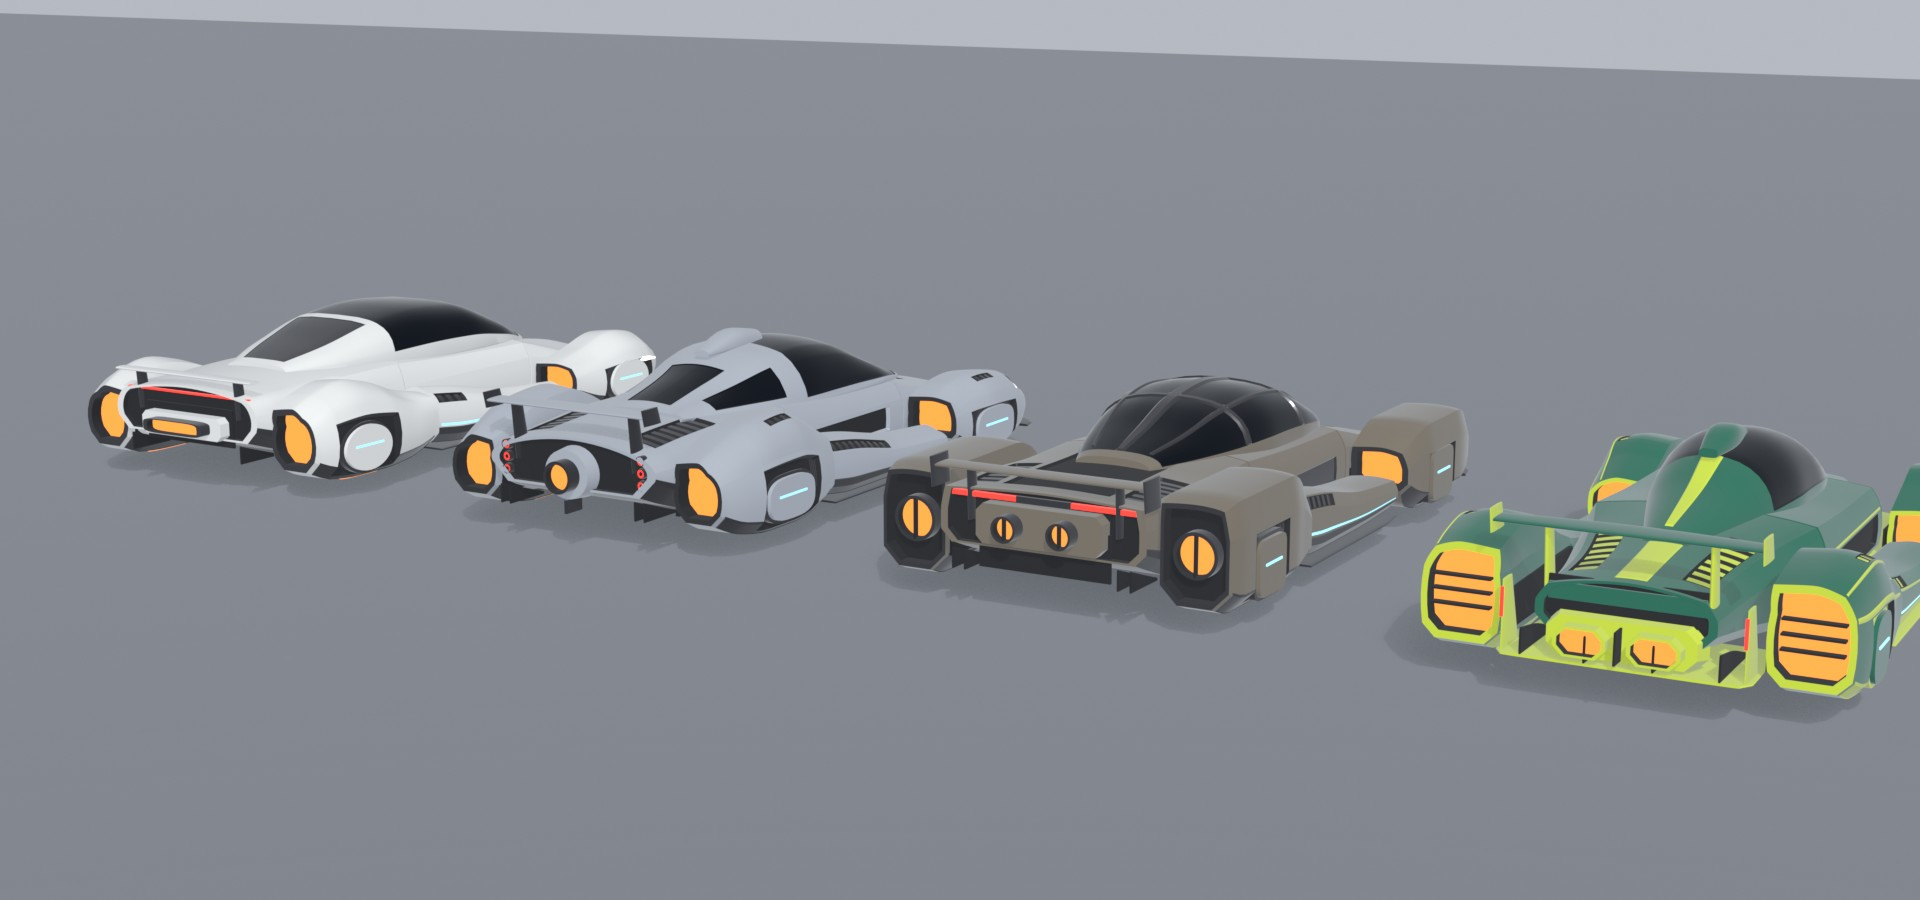
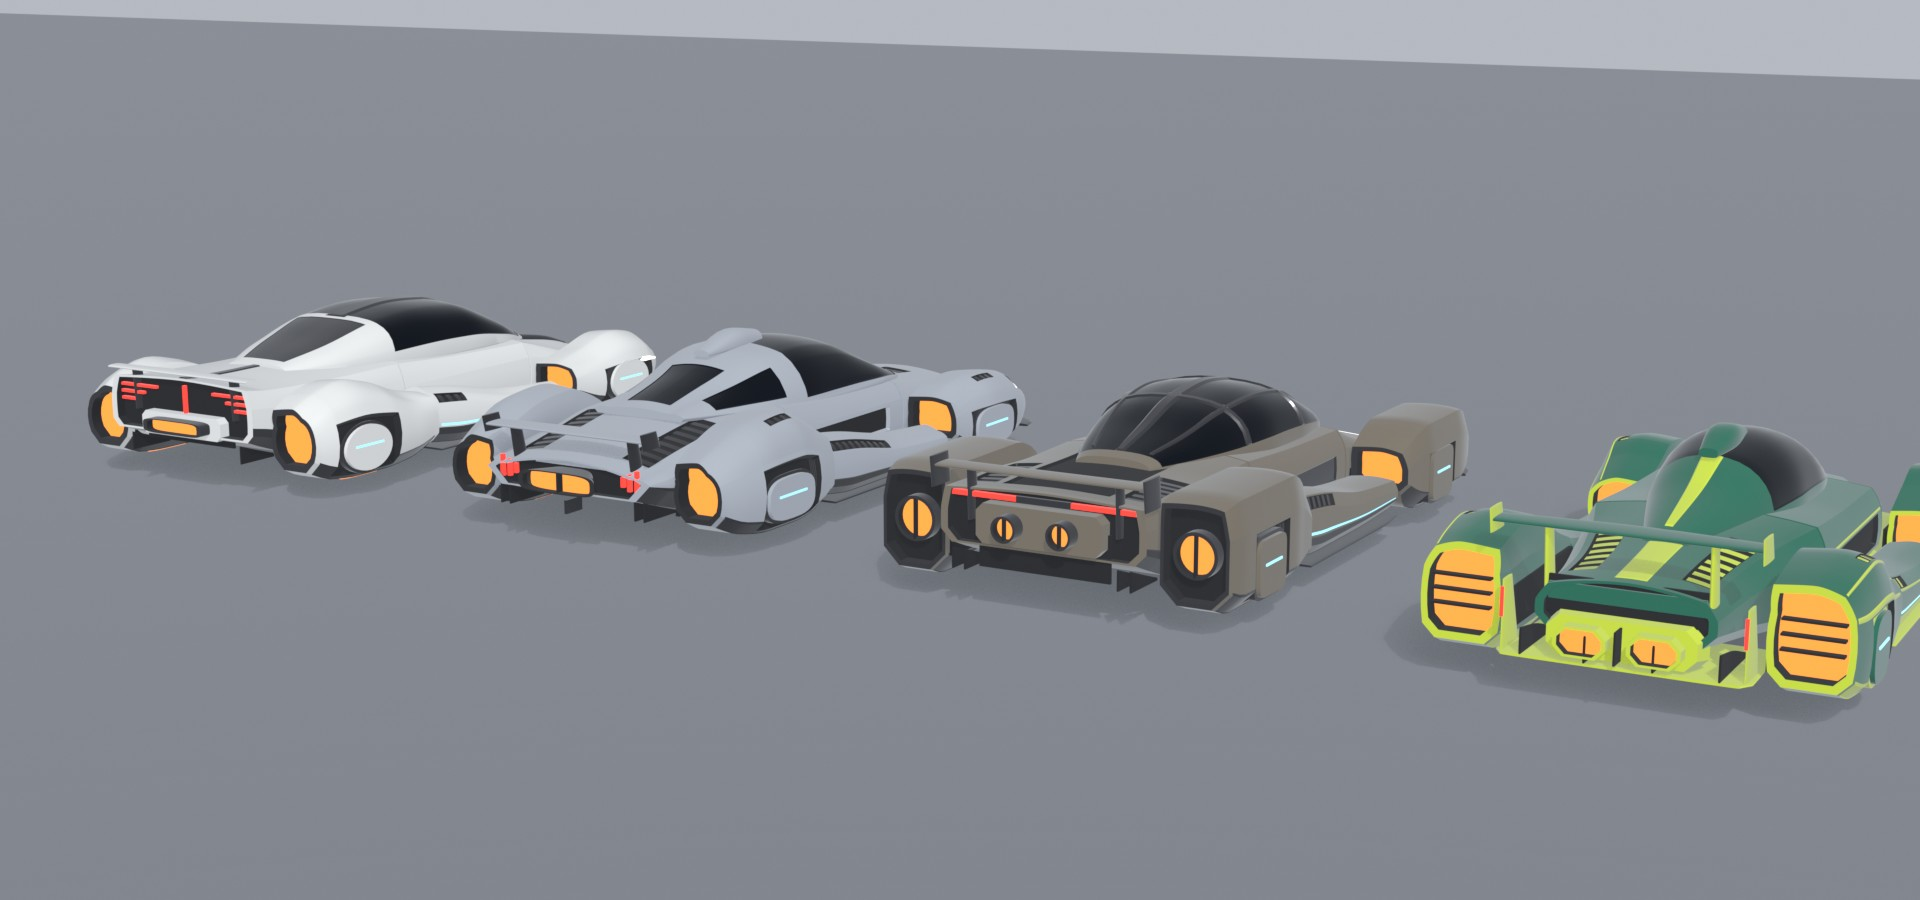
garage: Exotic cars C, D, E - own nose and tail language per car (spine and chopped tail, bullnose and sloping tail, valley nose and light bar)

Changed region(s): [[0.25, 0.4356, 0.375, 0.56], [0.0312, 0.4044, 0.1562, 0.4667], [0.4688, 0.4044, 0.5, 0.4356]]

diff --git a/scripts/exotic_category/mesh/cars2.py b/scripts/exotic_category/mesh/cars2.py
@@ -14,6 +14,15 @@
 
 All four keep the flowing fender-over-arch construction of cars A and B; they differ in profile.
 
+Visual language, nose and tail:
+  C  spine and blade: long pointed shark nose, a spine from nose tip through the glass, a tall chopped
+     tail with stepped lamp blades and a red centre spine.
+  D  soft and deep: thick rounded bullnose with a big mouth and upright corner lamps; a tail that
+     slopes down to a low edge, upright lamp blades, a flared fishtail burner.
+  E  valley and bar: short low nose that droops between the tall fenders, clean, with a full-width
+     light bar front and rear and twin low intakes.
+  F  raised and open: high narrow nose over a wing, open tail.
+
 Each has three versions per slot (STD road car, GT race kit, EVO full kit), built by cars.py helpers.
 """
 import exokit as K
@@ -133,14 +142,6 @@ SILL_ST = [(-5.2, dict(yb=-0.8, yt=0.4, ys=0.0)), (-2.0, dict(yt=0.65, ys=0.15))
            (3.4, dict(yb=-0.7, yt=1.55, ys=0.9))]
 
 
-def ring_lamp(name, x, y, z0, z1, r, ch="lights_red"):
-    """Round lamp that reads as a ring: lit lens with a dark centre."""
-    t = tube(z0, z1, x, y, r)
-    t.build(name, "secondary", mirror=True, caps=(True, False))
-    t.throat(name + "l", "max", lip="secondary", back=ch, scale=0.82, depth=0.06, mirror=True)
-    t.cap(name + "c", "max", "detail", scale=0.42, push=-0.04, mirror=True)
-
-
 # ---------------------------------------------------------------- car C: clean concept coupe
 
 C_POD = dict(rb=0.45, tum=0.5, drop=0.3, tumi=0.03, dropi=0.12, wcf=0.4, d2=0.03, crown=0.11)
@@ -155,12 +156,13 @@ def car_c():
                 (0.0, dict(w=3.25, yt=4.25)), (2.2, dict(w=3.1, yt=4.05)), (5.0, dict(w=2.6, yb=2.15, yt=3.3)),
                 (7.3, dict(w=1.6, yb=2.3, yt=2.7))], yb=1.95, yw=0.1, nt=3.2, nb=3.0)
     can.build("canopy", "primary", regions=[R(-6.3, 2.5, 8, 172, "glass", 0.03),
+                                            R(-6.5, 2.7, 86.5, 93.5, "secondary", -0.05),
                                             R(2.9, 6.9, 62, 118, "secondary", 0.02)])
     for trim in TRIMS:
         lvl = LVL[trim]
         K.begin(c, "NOSE", trim)
-        nose = Hull([(-12.6, dict(w=1.2, yb=0.15, yt=0.5, rb=0.1, ys=0.3, tum=0.15, drop=0.08)),
-                     (-12.0, dict(w=2.6, yb=0.0, yt=0.72, rb=0.2, ys=0.38, tum=0.25, drop=0.15)),
+        nose = Hull([(-12.6, dict(w=0.5, yb=0.2, yt=0.52, rb=0.1, ys=0.34, tum=0.12, drop=0.08)),
+                     (-12.0, dict(w=1.9, yb=0.0, yt=0.74, rb=0.2, ys=0.4, tum=0.25, drop=0.15)),
                      (-11.0, dict(w=3.5, yb=-0.3, yt=0.98, rb=0.35, ys=0.5, tum=0.35, drop=0.25)),
                      (-8.5, dict(w=3.8, yt=1.4, ys=0.8, tum=0.4, drop=0.32)),
                      (-6.6, dict(w=3.8, yt=1.9, ys=1.15, tum=0.36, drop=0.3, crown=0.06)), (-5.2, SEAM_F)],
@@ -171,10 +173,13 @@ def car_c():
         nose.build("skin", "primary", t1=-5.2 - GAP, regions=regs)
         if lvl:
             louvres(nose, "hood", -9.7, -7.4, 4.25, 4.9, 5 + lvl, off=-0.08)
-        jaw = Loft([(-12.1, dict(w=1.9)), (-11.6, dict(w=2.9)), (-10.5, dict(w=3.5))], yb=-0.4, yt=0.3, nt=5, nb=5)
+        jaw = Loft([(-11.9, dict(w=1.5)), (-11.4, dict(w=2.6)), (-10.5, dict(w=3.4))], yb=-0.4, yt=0.3, nt=5, nb=5)
         jaw.build("jaw", "secondary", caps=(False, True))
         jaw.throat("grille", "min", lip="secondary", scale=0.88, depth=0.5)
-        nose_splitter(lvl, -12.6, 1.4, 2.6)
+        Loft([(-12.45, dict(w=0.08, yb=0.42, yt=0.66)), (-11.0, dict(w=0.2, yb=0.85, yt=1.16)),
+              (-8.5, dict(w=0.26, yb=1.3, yt=1.62)), (-6.6, dict(w=0.28, yb=1.8, yt=2.1)),
+              (-5.3, dict(w=0.28, yb=2.1, yt=2.36))], nt=2.0, nb=2.0, yw=0.2).build("spine", "secondary")
+        nose_splitter(lvl, -12.6, 0.9, 2.2)
 
         K.begin(c, "FPOD", trim)
         st = [(-12.0, dict(cx=5.0, w=0.5, wi=0.5, yb=0.2, yt=0.9, ys=0.5, rb=0.15, tum=0.15, drop=0.1, dropi=0.1)),
@@ -192,18 +197,22 @@ def car_c():
         flange(-10.6, -5.6, 0.5)
 
         K.begin(c, "TAIL", trim)
+        top = (2.72, 2.84, 2.96)[lvl]   # tall chopped tail with a kicked-up trailing edge
         tail = Hull([(2.8, SEAM_R), (5.5, dict(yt=2.58, crown=0.1)),
-                     (8.6, dict(yt=2.5, ys=1.45, tum=0.4, drop=0.35)), (10.0, dict(yb=0.0, yt=2.45, ys=1.5)),
-                     (11.2, dict(w=3.7, yb=0.4, yt=(2.4, 2.55, 2.7)[lvl], ys=1.55, tum=0.45, drop=0.35, rb=0.5))],
-                    creases=(1, 2, 3), **{**SEAM_R, "crown": 0.1})
-        regs = [R(8.6, 11.2, 0.0, 2.3, "secondary", 0.02)]
+                     (8.6, dict(yt=2.58, ys=1.6, tum=0.3, drop=0.25, crown=0.06)),
+                     (10.4, dict(yb=0.1, yt=top - 0.1, ys=1.75, tum=0.26, drop=0.2, crown=0.03)),
+                     (11.45, dict(w=3.76, yb=0.5, yt=top, ys=1.85, tum=0.22, drop=0.16, rb=0.3, crown=0.02))],
+                    **{**SEAM_R, "crown": 0.1})
+        regs = [R(8.6, 11.45, 0.0, 2.3, "secondary", 0.02), R(3.0, 11.3, 5.86, 6.0, "secondary", -0.05)]
         if lvl:
             regs.append(R(6.0, 10.2, 4.2, 4.9, "detail", 0.14))
         tail.build("skin", "primary", t0=2.8 + GAP, caps=(True, False), regions=regs)
         if lvl:
             louvres(tail, "deck", 6.1, 10.1, 4.25, 4.85, 8, off=-0.07)
-        tail.throat("fascia", "max", lip="primary", scale=0.92, depth=0.25)
-        box("strip", (0, 2.08, 11.0), (6.5, 0.07, 0.14), "lights_red")
+        tail.throat("fascia", "max", lip="primary", scale=0.93, depth=0.4)
+        for i, (x, y, w) in enumerate(((2.45, 2.2, 1.9), (2.8, 1.92, 1.2), (3.0, 1.64, 0.8))):
+            box(f"lamp{i}", (x, y, 11.2), (w, 0.1, 0.14), "lights_red", mirror=True)
+        box("spinelamp", (0, 1.75, 11.2), (0.12, 1.3, 0.14), "lights_red")
         tail_kit(lvl, (2.9,), nt=4.0)
 
         K.begin(c, "RPOD", trim)
@@ -236,8 +245,8 @@ def car_c():
 
         K.begin(c, "WING", trim)
         if lvl == 0:   # clean lip on two stubs
-            plane("lip", 3.6, 10.95, 0.35, 2.74, 2.86, "primary", tip=(11.05, 0.28))
-            blade("stub", 2.6, 1.25, 2.78, (10.5, 11.1), (10.7, 11.2), "secondary")
+            plane("lip", 3.7, 11.2, 0.4, 2.84, 2.96, "primary", tip=(11.3, 0.32))
+            blade("stub", 2.6, 1.25, 2.88, (10.7, 11.3), (10.9, 11.4), "secondary")
         elif lvl == 1:
             race_wing(4.6, 11.2, 0.85, 4.3, 2.8, plate=(3.6, 4.8))
         else:
@@ -269,20 +278,20 @@ def car_d():
     for trim in TRIMS:
         lvl = LVL[trim]
         K.begin(c, "NOSE", trim)
-        nose = Hull([(-12.3, dict(w=2.2, yb=0.0, yt=0.62, rb=0.2, ys=0.32, tum=0.3, drop=0.15)),
-                     (-11.6, dict(w=3.2, yb=-0.2, yt=0.9, rb=0.35, ys=0.45, tum=0.4, drop=0.25)),
-                     (-10.4, dict(w=3.7, yt=1.15, ys=0.58, tum=0.42, drop=0.3)),
-                     (-8.5, dict(w=3.8, yt=1.5, ys=0.85, tum=0.42, drop=0.32)),
-                     (-6.6, dict(w=3.8, yt=1.92, ys=1.15, tum=0.36, drop=0.3)), (-5.2, SEAM_F)],
-                    creases=(1, 2, 3), yb=-0.4, rb=0.5, wcf=0.5, d2=0.05, crown=0.1)
-        vent = ((-9.3, -8.3, 5.0, 5.6, 3), (-10.0, -7.6, 4.3, 5.6, 6), (-10.3, -7.2, 4.2, 5.65, 8))[lvl]
+        nose = Hull([(-12.25, dict(w=2.7, yb=-0.1, yt=1.12, rb=0.45, ys=0.6, tum=0.5, drop=0.38)),
+                     (-11.5, dict(w=3.35, yb=-0.3, yt=1.4, rb=0.5, ys=0.75, tum=0.5, drop=0.4)),
+                     (-10.2, dict(w=3.72, yt=1.6, ys=0.85, tum=0.46, drop=0.36)),
+                     (-8.2, dict(w=3.8, yt=1.8, ys=1.0, tum=0.42, drop=0.32)),
+                     (-6.6, dict(w=3.8, yt=2.0, ys=1.18, tum=0.36, drop=0.3)), (-5.2, SEAM_F)],
+                    creases=(1, 2), yb=-0.4, rb=0.5, wcf=0.5, d2=0.05, crown=0.12)
+        vent = ((-9.6, -8.4, 4.9, 5.7, 3), (-10.2, -7.6, 4.3, 5.7, 6), (-10.5, -7.2, 4.2, 5.75, 8))[lvl]
         nose.build("skin", "primary", t1=-5.2 - GAP, caps=(False, True), regions=[
             R(vent[0], vent[1], vent[2], vent[3], "detail", 0.15), R(-12.2, -10.6, 0.3, 2.2, "secondary", 0.02)])
         louvres(nose, "hood", vent[0] + 0.08, vent[1] - 0.08, vent[2] + 0.05, vent[3] - 0.05, vent[4], off=-0.08)
-        nose.throat("mouth", "min", lip="primary", scale=0.8, depth=0.5)
-        duct = Loft([(-12.0, dict(w=0.9)), (-10.6, dict(w=1.2))], cx=2.2, yb=-0.38, yt=0.22, nt=2.6, nb=2.6, yw=0.5)
-        duct.build("duct", "secondary", mirror=True, caps=(False, True))
-        duct.throat("ductin", "min", lip="secondary", scale=0.84, depth=0.5, mirror=True)
+        nose.throat("mouth", "min", lip="primary", scale=0.74, depth=0.6)
+        box("mouthbar", (0, 0.5, -11.95), (3.6, 0.07, 0.1), "secondary")
+        nose.patch("lamp", -12.15, -11.95, 2.15, 2.95, "lights", off=0.03, mirror=True)
+        nose.patch("lamp2", -11.8, -11.66, 2.3, 2.95, "lights", off=0.03, mirror=True)
         nose_splitter(lvl, -12.3, 2.4, 3.3, nt=4.0)
 
         K.begin(c, "FPOD", trim)
@@ -302,18 +311,19 @@ def car_d():
         flange(-10.4, -5.6, 0.5)
 
         K.begin(c, "TAIL", trim)
-        tail = Hull([(2.8, SEAM_R), (5.5, dict(yt=2.6, crown=0.1)),
-                     (8.6, dict(w=3.78, yt=2.5, ys=1.45, tum=0.5, drop=0.4)),
-                     (10.2, dict(yb=0.0, yt=2.4, ys=1.45, tum=0.55, drop=0.45, rb=0.6)),
-                     (11.2, dict(w=3.65, yb=0.4, yt=(2.3, 2.45, 2.6)[lvl], ys=1.4, tum=0.6, drop=0.45, rb=0.7))],
+        end = (1.55, 1.65, 1.75)[lvl]   # the deck slopes down to a low edge
+        tail = Hull([(2.8, SEAM_R), (5.5, dict(yt=2.5, crown=0.1)),
+                     (8.6, dict(w=3.78, yt=2.1, ys=1.25, tum=0.5, drop=0.4)),
+                     (10.4, dict(yb=0.0, yt=end + 0.25, ys=1.1, tum=0.55, drop=0.45, rb=0.6)),
+                     (11.5, dict(w=3.6, yb=0.35, yt=end, ys=1.0, tum=0.55, drop=0.4, rb=0.6))],
                     creases=(1, 2, 3), **{**SEAM_R, "crown": 0.1})
-        deck = (6.6, 5.6, 4.8)[lvl]
+        deck = (6.2, 5.2, 4.4)[lvl]
         tail.build("skin", "primary", t0=2.8 + GAP, caps=(True, False), regions=[
-            R(8.6, 11.2, 0.0, 2.3, "secondary", 0.02), R(deck, 10.2, 4.2, 4.9, "detail", 0.14)])
-        louvres(tail, "deck", deck + 0.1, 10.1, 4.25, 4.85, 7 + lvl * 2, off=-0.07)
-        tail.throat("fascia", "max", lip="primary", scale=0.9, depth=0.25)
-        for i, y in enumerate((0.85, 1.3, 1.75)):
-            ring_lamp(f"ring{i}", 3.0, y, 10.96, 11.2, 0.19)
+            R(8.6, 11.5, 0.0, 2.3, "secondary", 0.02), R(deck, 10.6, 4.2, 4.9, "detail", 0.14)])
+        louvres(tail, "deck", deck + 0.1, 10.5, 4.25, 4.85, 8 + lvl * 2, off=-0.07)
+        tail.throat("fascia", "max", lip="primary", scale=0.9, depth=0.3)
+        for i, (x, h) in enumerate(((3.0, 0.9), (2.68, 0.62), (2.4, 0.36))):
+            box(f"lamp{i}", (x, 0.98, 11.38), (0.14, h, 0.14), "lights_red", mirror=True)
         tail_kit(lvl, (2.8, 3.2), nt=4.0)
 
         K.begin(c, "RPOD", trim)
@@ -335,20 +345,23 @@ def car_d():
              intake=(-1.0, -1.8, -2.6), neon=False)
 
         K.begin(c, "BOOST", trim)
-        Loft([(10.8, dict(w=1.05)), (11.55, dict(w=0.95, yb=0.12, yt=1.92))], yb=0.05, yt=2.0, nt=2, nb=2,
-             yw=0.5).build("shroud", "primary")
-        burner("core", 11.2, 12.1 + lvl * 0.15, 0, 1.0, (0.6, 0.68, 0.72)[lvl])
-        if lvl == 1:
-            burner("side", 11.1, 11.9, 1.5, 1.0, 0.24)
-        elif lvl == 2:
-            burner("side", 11.1, 12.1, 1.6, 1.0, 0.4)
+        box("panel", (0, 0.85, 11.0), (4.2, 0.9, 0.1), "detail")
+        box("band", (0, 1.34, 11.1), (3.2, 0.12, 0.3), "primary")
+        out = 12.15 + lvl * 0.15   # fishtail: a flat nozzle that flares out toward the exit
+        t = Loft([(11.0, dict(w=0.75, yb=0.4, yt=1.2)), (out, dict(w=1.7 + lvl * 0.15, yb=0.42, yt=1.22))], nt=4,
+                 nb=4, yw=0.5)
+        t.build("fishtail", "secondary", caps=(True, False))
+        t.throat("noz", "max", lip="secondary", back="thrust", scale=0.88, depth=0.35)
+        box("vane", (0, 0.82, out - 0.25), (0.06, 0.7, 0.4), "detail")
+        if lvl:
+            burner("side", 11.1, 11.9 + lvl * 0.1, 2.15, 0.8, 0.2 + lvl * 0.05)
         box("keel", (0, -0.15, 11.2 + lvl * 0.2), (0.1, 0.5, 0.9 + lvl * 0.4), "secondary")
 
         K.begin(c, "WING", trim)
         if lvl == 0:   # modest wing on two pylons
-            plane("plane", 3.5, 11.0, 0.6, 3.3, 3.45, "primary", tip=(11.1, 0.48))
-            blade("pylon", 2.6, 1.25, 3.34, (10.3, 11.1), (10.7, 11.3), "secondary")
-            blade("plate", 3.52, 3.1, 3.7, (10.6, 11.6), (10.8, 11.75), "secondary", t=0.05)
+            plane("plane", 3.5, 11.1, 0.6, 2.45, 2.6, "primary", tip=(11.2, 0.48))
+            blade("pylon", 2.6, 1.25, 2.5, (10.5, 11.2), (10.8, 11.4), "secondary")
+            blade("plate", 3.52, 2.25, 2.85, (10.7, 11.7), (10.9, 11.85), "secondary", t=0.05)
         elif lvl == 1:
             race_wing(4.8, 11.2, 0.9, 4.6, 2.6, plate=(3.8, 5.1))
         else:
@@ -376,21 +389,22 @@ def car_e():
     for trim in TRIMS:
         lvl = LVL[trim]
         K.begin(c, "NOSE", trim)
-        nose = Hull([(-12.4, dict(w=3.5, yb=-0.1, yt=0.5, rb=0.2, ys=0.2, tum=0.1, drop=0.1)),
-                     (-11.2, dict(w=3.7, yb=-0.3, yt=0.85, rb=0.35, ys=0.45, tum=0.15, drop=0.15)),
-                     (-8.5, dict(w=3.8, yt=1.4, ys=0.85, tum=0.25, drop=0.25)),
-                     (-6.6, dict(w=3.8, yt=1.9, ys=1.15, tum=0.33, drop=0.28)), (-5.2, SEAM_F)],
-                    yb=-0.4, rb=0.5, wcf=0.3, d2=0.14, crown=0.01)
-        regs = [R(-11.8, -6.9, 5.0, 6.0, "secondary", 0.03), R(-12.3, -10.6, 2.9, 3.02, "lights", -0.01)]
+        nose = Hull([(-11.9, dict(w=2.3, yb=-0.12, yt=0.46, rb=0.2, ys=0.18, tum=0.25, drop=0.14)),
+                     (-11.3, dict(w=3.3, yb=-0.3, yt=0.64, rb=0.35, ys=0.32, tum=0.3, drop=0.2)),
+                     (-9.2, dict(w=3.8, yt=1.0, ys=0.58, tum=0.3, drop=0.25)),
+                     (-6.8, dict(w=3.8, yt=1.7, ys=1.05, tum=0.33, drop=0.28)), (-5.2, SEAM_F)],
+                    creases=(1, 2, 3), yb=-0.4, rb=0.5, wcf=0.45, d2=0.05, crown=0.06)
+        regs = [R(-11.7, -10.4, 0.3, 2.2, "secondary", 0.02)]
         if lvl:
-            regs.append(R(-10.2, -7.2, 4.15, 4.8, "detail", 0.18))
-        nose.build("skin", "primary", t1=-5.2 - GAP, caps=(False, True), regions=regs)
+            regs.append(R(-9.6, -7.6, 4.5, 5.2, "detail", 0.18))
+        nose.build("skin", "primary", t1=-5.2 - GAP, regions=regs)
         if lvl:
-            louvres(nose, "hood", -10.1, -7.3, 4.2, 4.75, 5 + lvl, off=-0.1)
-        nose.throat("mouth", "min", lip="primary", scale=0.86, depth=0.7)
-        for i, x in enumerate((1.1,)):
-            box(f"strut{i}", (x, 0.2, -12.2), (0.08, 0.5, 0.4), "secondary", mirror=True)
-        nose_splitter(lvl, -12.4, 3.3, 3.6, nt=7.0)
+            louvres(nose, "hood", -9.5, -7.7, 4.55, 5.15, 4 + lvl, off=-0.1)
+        nose.patch("bar", -11.62, -11.48, 4.02, 6.0, "lights", off=0.03, mirror=True)
+        duct = rect([(-11.95, {}), (-10.8, {})], 1.75, 0.95, -0.38, 0.12, c=0.1)
+        duct.build("duct", "secondary", mirror=True, caps=(False, True))
+        duct.throat("ductin", "min", lip="secondary", scale=0.86, depth=0.5, mirror=True)
+        nose_splitter(lvl, -12.3, 2.9, 3.5, nt=6.0)
 
         K.begin(c, "FPOD", trim)
         st = [(-12.3, dict(cx=5.05, w=1.0, wi=1.0, yb=-0.5, yt=1.3, ys=0.75)),
